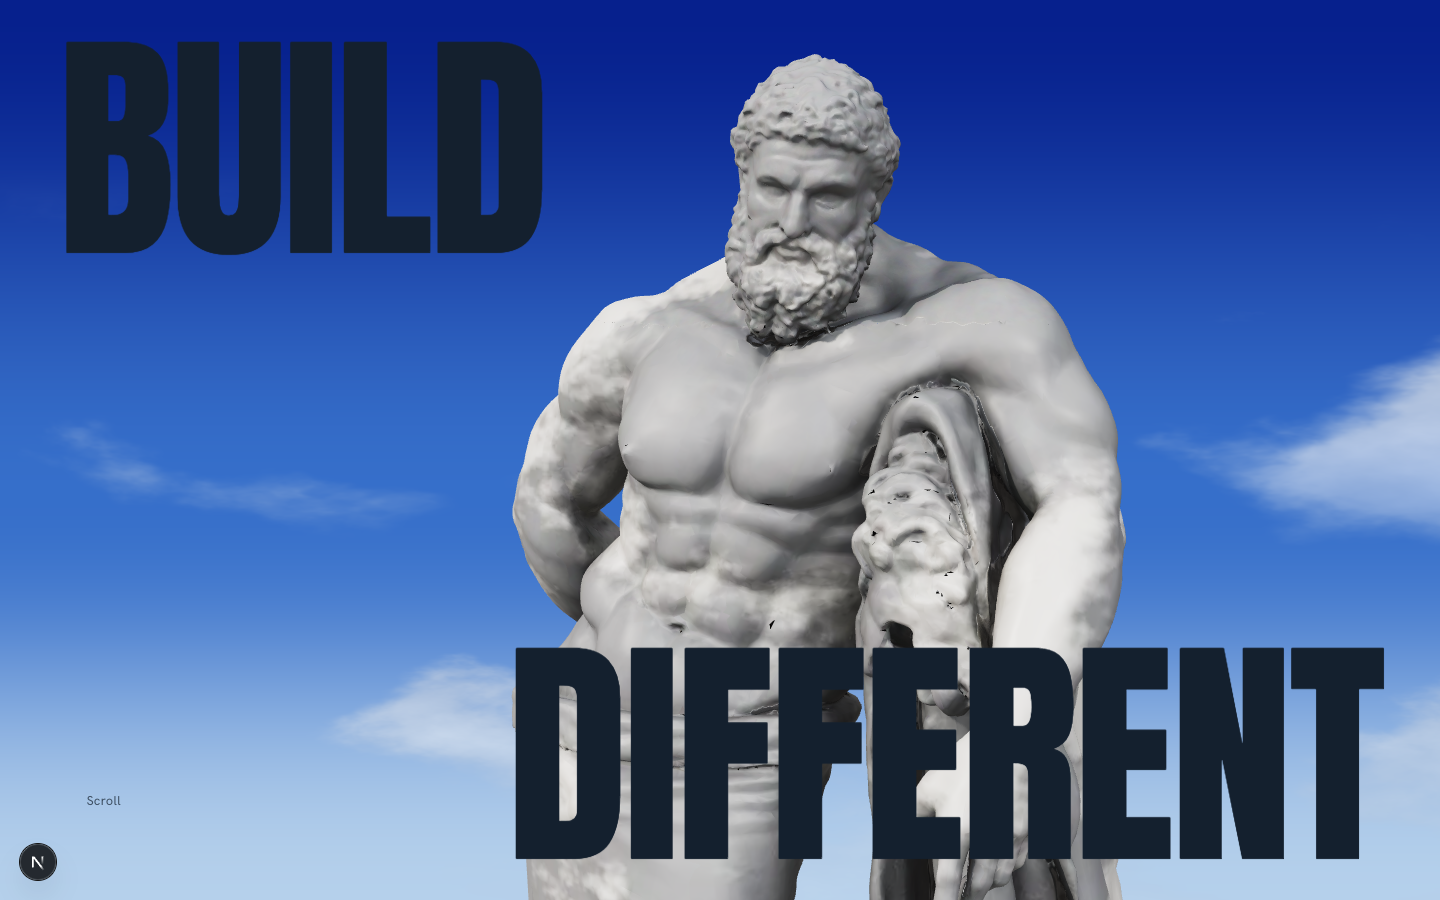
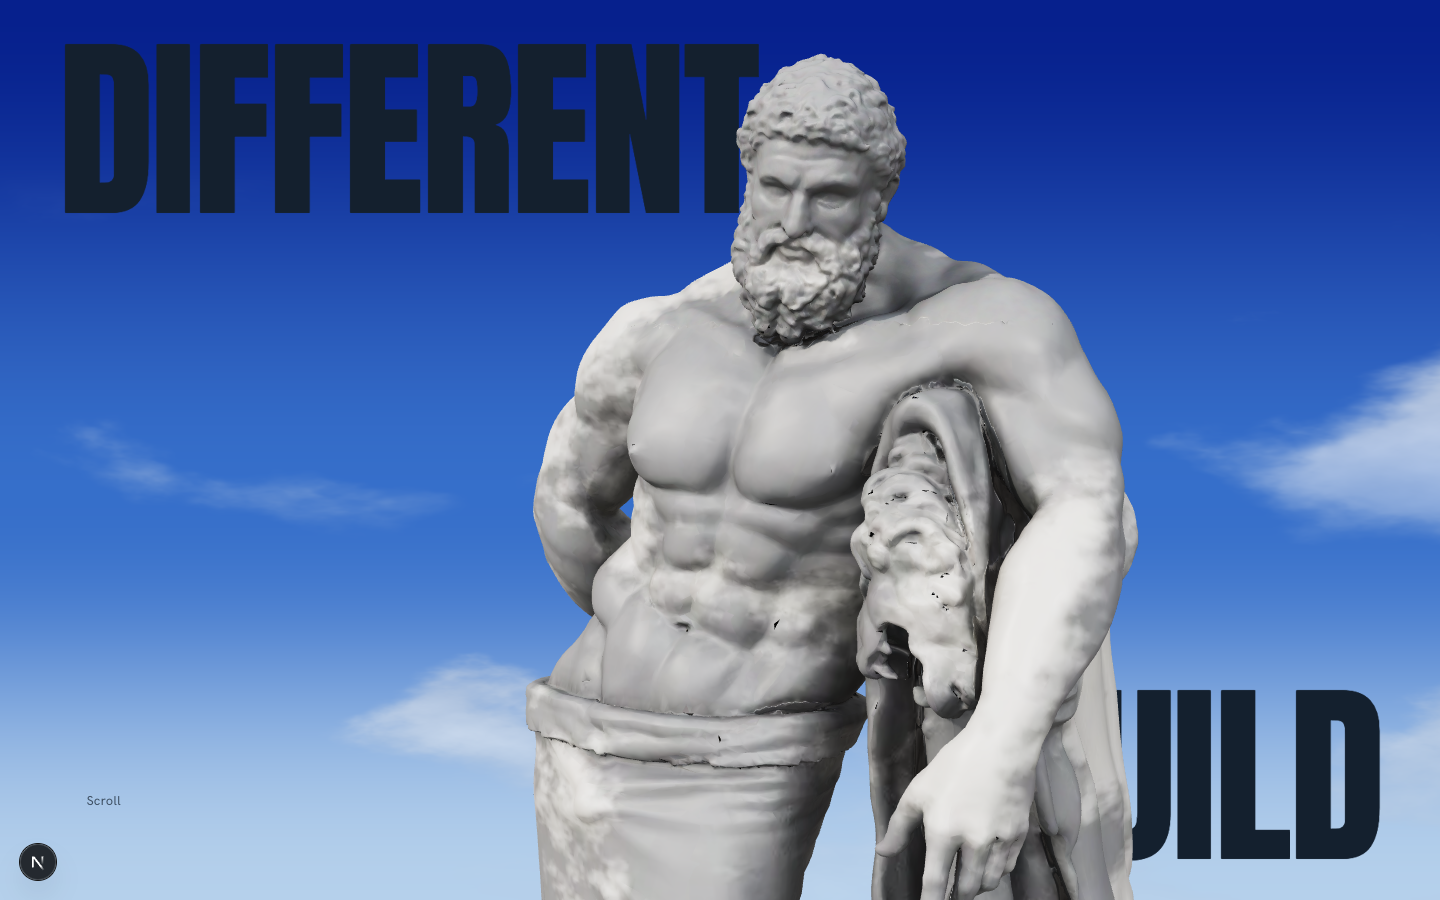
Wordmark behind the statue on split canvases, DIFFERENT top and BUILD bottom at 0.8x, staggered letter entrance
Claude-Session: https://claude.ai/code/session_01NAdPXLUXCGhh82qBsMYyAh

diff --git a/src/hero/Scene.tsx b/src/hero/Scene.tsx
@@ -32,36 +32,76 @@ function Lights() {
         shadow-normalBias={0.02}
         position={[-1.8, 3.4, 2.6]}
       >
-        <orthographicCamera attach="shadow-camera" args={[-1.5, 1.5, 2.4, -0.4, 0.5, 8]} />
+        <orthographicCamera
+          attach="shadow-camera"
+          args={[-1.5, 1.5, 2.4, -0.4, 0.5, 8]}
+        />
       </directionalLight>
       <hemisphereLight args={["#bcd6f2", "#6f6a63", 0.4]} />
     </>
   );
 }
 
-export function Scene({ frozen = false, onReady }: { frozen?: boolean; onReady?: () => void }) {
+/** The sky is its own canvas at the back, so DOM text can sit between the sky and the statue. */
+export function SkyScene({ frozen = false }: { frozen?: boolean }) {
   return (
-    <Canvas
-      className="hero__canvas"
-      dpr={[1, 2]}
-      gl={{ antialias: true, powerPreference: "high-performance", alpha: false }}
-      shadows
-      camera={{ fov: 32, near: 0.05, far: 60, position: [0.3, 1.6, 0.6] }}
-      frameloop="always"
-      onCreated={({ gl }) => {
-        gl.toneMapping = THREE.ACESFilmicToneMapping;
-        gl.toneMappingExposure = 0.92;
-        gl.outputColorSpace = THREE.SRGBColorSpace;
-        onReady?.();
-      }}
-    >
-      <Sky frozen={frozen} />
-      <Suspense fallback={null}>
-        <Environment files="/hdri/brown_photostudio_02_1k.hdr" environmentIntensity={0.5} />
-        <Statue frozen={frozen} />
-      </Suspense>
-      <Lights />
-      <CameraRig frozen={frozen} />
-    </Canvas>
+    <div className="hero__canvas hero__canvas--sky">
+      <Canvas
+        dpr={[1, 2]}
+        gl={{
+          antialias: false,
+          powerPreference: "high-performance",
+          alpha: false,
+          depth: false,
+          stencil: false,
+        }}
+        frameloop="always"
+      >
+        <Sky frozen={frozen} />
+      </Canvas>
+    </div>
+  );
+}
+
+/** The statue renders on a transparent canvas above the wordmark. */
+export function Scene({
+  frozen = false,
+  onReady,
+}: {
+  frozen?: boolean;
+  onReady?: () => void;
+}) {
+  return (
+    <div className="hero__canvas hero__canvas--statue">
+      <Canvas
+        dpr={[1, 2]}
+        gl={{
+          antialias: true,
+          powerPreference: "high-performance",
+          alpha: true,
+          premultipliedAlpha: true,
+        }}
+        shadows
+        camera={{ fov: 32, near: 0.05, far: 60, position: [0.3, 1.6, 0.6] }}
+        frameloop="always"
+        onCreated={({ gl }) => {
+          gl.toneMapping = THREE.ACESFilmicToneMapping;
+          gl.toneMappingExposure = 0.92;
+          gl.outputColorSpace = THREE.SRGBColorSpace;
+          gl.setClearColor(0x000000, 0);
+          onReady?.();
+        }}
+      >
+        <Suspense fallback={null}>
+          <Environment
+            files="/hdri/brown_photostudio_02_1k.hdr"
+            environmentIntensity={0.5}
+          />
+          <Statue frozen={frozen} />
+        </Suspense>
+        <Lights />
+        <CameraRig frozen={frozen} />
+      </Canvas>
+    </div>
   );
 }

diff --git a/src/app/globals.css b/src/app/globals.css
@@ -104,6 +104,23 @@ body {
   position: absolute;
   inset: 0;
 }
+.hero__canvas--sky {
+  z-index: 0;
+}
+.hero__layer--behind {
+  position: absolute;
+  inset: 0;
+  z-index: 1;
+}
+.hero__canvas--statue {
+  z-index: 2;
+}
+.hero__layer--front {
+  position: absolute;
+  inset: 0;
+  z-index: 3;
+  pointer-events: none;
+}
 
 .hero__still {
   position: absolute;
@@ -128,30 +145,51 @@ body {
 .copy button {
   pointer-events: auto;
 }
-/* the opening frame: BUILD top left, DIFFERENT bottom right, in a heavy condensed grotesk */
+/* the opening frame: DIFFERENT top left, BUILD bottom right, in a heavy condensed grotesk.
+   Letters rise out of a clipped line with a stagger, sharpening from a slight blur, then the words sit still. */
 .copy--wordmark {
   max-width: none;
   font-family: var(--font-wordmark);
   font-weight: 400;
   text-transform: uppercase;
-  font-size: clamp(4.5rem, 17vw, 24rem);
+  font-size: clamp(3.6rem, 13.6vw, 19rem);
   line-height: 0.82;
   letter-spacing: -0.015em;
   color: var(--ink);
-  animation: headline-in 500ms ease-out 120ms both;
 }
-.copy--wordmark span {
+.copy--wordmark .word {
   position: absolute;
   white-space: nowrap;
+  display: inline-block;
+  overflow: hidden;
+  padding: 0.06em 0.04em 0.02em;
+  margin: -0.06em -0.04em -0.02em;
 }
-.copy--wordmark .word--build {
+.copy--wordmark .word--top {
   left: clamp(1rem, 4vw, 4rem);
   top: clamp(0.75rem, 3.5vw, 3.5rem);
 }
-.copy--wordmark .word--different {
+.copy--wordmark .word--bottom {
   right: clamp(1rem, 4vw, 4rem);
   bottom: clamp(0.5rem, 3vw, 3rem);
 }
+.copy--wordmark .letter {
+  display: inline-block;
+  transform: translateY(110%) rotate(2deg);
+  opacity: 0;
+  filter: blur(6px);
+  animation: letter-in 900ms cubic-bezier(0.16, 1, 0.3, 1) both;
+  will-change: transform, filter, opacity;
+}
+@keyframes letter-in {
+  0% { transform: translateY(110%) rotate(2deg); opacity: 0; filter: blur(6px); }
+  60% { opacity: 1; }
+  100% { transform: none; opacity: 1; filter: blur(0); }
+}
+@media (prefers-reduced-motion: reduce) {
+  .copy--wordmark .letter { animation: none; transform: none; opacity: 1; filter: none; }
+}
+
 .copy--block {
   left: clamp(1.25rem, 6vw, 6rem);
   top: 50%;
@@ -179,23 +217,6 @@ body {
   to { opacity: 1; transform: none; }
 }
 
-.cta {
-  display: inline-block;
-  padding: 0.9rem 1.6rem;
-  border: 1px solid currentColor;
-  border-radius: 999px;
-  font-family: var(--font-body);
-  font-size: var(--step-0);
-  text-decoration: none;
-  color: inherit;
-  background: rgba(255, 255, 255, 0.55);
-  backdrop-filter: blur(8px);
-}
-.cta:hover {
-  background: var(--ink);
-  color: white;
-}
-
 .scroll-hint {
   position: absolute;
   left: clamp(1.25rem, 6vw, 6rem);
@@ -208,9 +229,10 @@ body {
 }
 
 /* static and reduced motion: copy blocks stack in flow under the still */
-.hero.is-static .copy--wordmark span {
+.hero.is-static .copy--wordmark .word {
   position: static;
   display: block;
+  overflow: visible;
 }
 .hero.is-static .copy {
   position: static;

diff --git a/src/hero/Copy.tsx b/src/hero/Copy.tsx
@@ -5,7 +5,10 @@ import { COPY_WINDOWS } from "./beats";
 import { onProgress } from "./progress";
 
 /** Copy blocks in DOM over the canvas. Opacity is a function of p, applied directly to style, no React state. */
-export function Copy({ isStatic }: { isStatic: boolean }) {
+type Layer = "behind" | "front" | "all";
+
+/** layer "behind" renders only the wordmark (between sky and statue), "front" the rest, "all" for the static page. */
+export function Copy({ isStatic, layer = "all" }: { isStatic: boolean; layer?: Layer }) {
   const refs = useRef<Record<string, HTMLElement | null>>({});
 
   useEffect(() => {
@@ -27,12 +30,27 @@ export function Copy({ isStatic }: { isStatic: boolean }) {
     refs.current[k] = el;
   };
 
+  // each letter is its own span so the entrance can stagger; the word stays one accessible string
+  const word = (text: string, cls: string, delay: number) => (
+    <span className={`word ${cls}`} aria-label={text} role="text">
+      {Array.from(text).map((ch, i) => (
+        <span className="letter" aria-hidden="true" key={i} style={{ animationDelay: `${delay + i * 45}ms` }}>
+          {ch}
+        </span>
+      ))}
+    </span>
+  );
+  const wordmark = (
+    <h1 className="copy copy--wordmark" ref={set("headline1")} style={isStatic ? undefined : { opacity: 1, inset: 0 }}>
+      {word(COPY.wordmark[0], "word--top", 150)}
+      {word(COPY.wordmark[1], "word--bottom", 450)}
+    </h1>
+  );
+  if (layer === "behind") return <div className="hero__layer hero__layer--behind">{wordmark}</div>;
+
   return (
-    <div className={isStatic ? "hero__copy-stack" : undefined}>
-      <h1 className="copy copy--wordmark" ref={set("headline1")} style={isStatic ? undefined : { opacity: 1, inset: 0 }}>
-        <span className="word--build">{COPY.wordmark[0]}</span>
-        <span className="word--different">{COPY.wordmark[1]}</span>
-      </h1>
+    <div className={isStatic ? "hero__copy-stack" : "hero__layer hero__layer--front"}>
+      {layer === "all" && wordmark}
       <p className="copy copy--block" ref={set("block1")}>
         {COPY.block1}
       </p>

diff --git a/src/hero/Hero.tsx b/src/hero/Hero.tsx
@@ -9,6 +9,7 @@ import { SCROLL_LENGTH_VH } from "./beats";
 import { setProgress } from "./progress";
 
 const Scene = dynamic(() => import("./Scene").then((m) => m.Scene), { ssr: false });
+const SkyScene = dynamic(() => import("./Scene").then((m) => m.SkyScene), { ssr: false });
 
 type Mode = "pending" | "scroll" | "reduced" | "static";
 
@@ -76,9 +77,13 @@ export function Hero() {
         {mode === "static" || mode === "pending" ? (
           <img className="hero__still" src="/hero-still.png" alt="A marble figure of Hercules, leaning on his club" width={1280} height={1280} />
         ) : (
-          <Scene frozen={frozen} />
+          <>
+            <SkyScene frozen={frozen} />
+            <Copy isStatic={false} layer="behind" />
+            <Scene frozen={frozen} />
+          </>
         )}
-        {!isStatic && <Copy isStatic={false} />}
+        {!isStatic && <Copy isStatic={false} layer="front" />}
       </div>
       {isStatic && <Copy isStatic />}
     </section>

diff --git a/src/hero/lines.ts b/src/hero/lines.ts
@@ -1,7 +1,7 @@
 /** Every line of copy on the hero. Sentence case, plain, declarative. */
 export const COPY = {
   preloader: "Cutting the marble.",
-  wordmark: ["Build", "Different"],
+  wordmark: ["Different", "Build"],
   headline1: "We build things that age well.",
   block1: "Permanence used to take a quarry, a chisel and most of a lifetime. The brief has not changed. The material has.",
   block2: "Nothing on the internet is carved. Everything is rendered, and most of it is rendered badly.",
